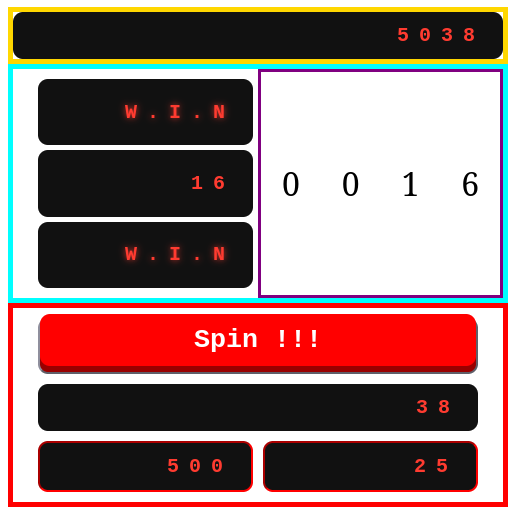
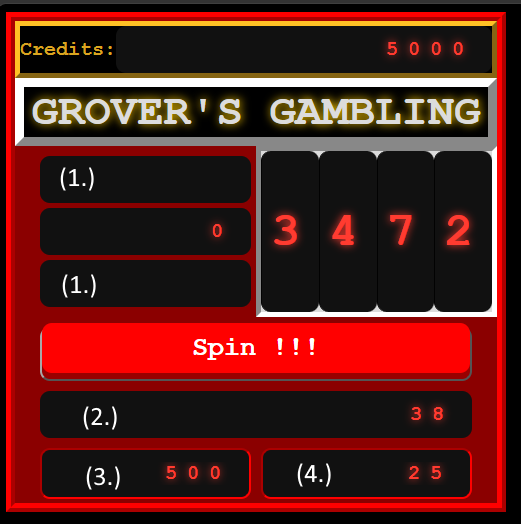
final README.md

diff --git a/README.md b/README.md
@@ -2,9 +2,11 @@
 
 > The world's first casino where the house edge is quantum mechanics.
 
+**Authors:** [Name 1], [Name 2], [Name 3]
+
 ## Summary
-- Idea: while absobing preliminary lessons before hackaton, we got an idea of implementing Grover's algorhitm in a fun way - that it have a very "gambler-friendly" property in first ever existing quantum casino - idea by us - which functionality is defined more detailed in following steps.
-- Solution: we use Grover's algorhitm to bring the gambling into the enviroment. Firstly, user does not bet on exact number, he bets on number of iterations, in which he thinks algorhitm can get the correct number. That way he can be more and more sure in hitting correct number, but by buying more iterations, his prize will be lower so he will have to place bigger bet. And secondly, Grover's can be overcooked, so when he will hit that point, his chances of winning will instantly drop to zero without him noticing, which is second gamble thing in our casino. To understand it deeper, please, see the "Logic & quantum computing" part.
+- Idea: while absorbing preliminary lessons before hackathon, we got an idea of implementing Grover's algorithm in a fun way - that it have a very "gambler-friendly" property in first ever existing quantum casino - idea by us - which functionality is defined more detailed in following steps.
+- Solution: we use Grover's algorithm to bring the gambling into the environment. Firstly, user does not bet on exact number, he bets on number of iterations, in which he thinks algorithm can get the correct number. That way he can be more and more sure in hitting correct number, but by buying more iterations, his prize will be lower so he will have to place bigger bet. And secondly, Grover's can be overcooked, so when he will hit that point, his chances of winning will instantly drop to zero without him noticing, which is second gamble thing in our casino. To understand it deeper, please, see the "Logic & quantum computing" part.
 - Result: casino earns money from people, who can not tell stop to themselves, because by increasing iterations they can be more sure, but also lose everything.
 
 
@@ -30,6 +32,7 @@ A classical computer needs about `N/2` guesses on average. Grover's algorithm ne
    - **Oracle:** flips the sign of the correct answer(s), which "marks" them.
    - **Diffuser:** reflects all amplitudes around their average, which increases the amplitude of the marked answer.
 3. **Measurement:** we measure **once** (1 shot). The result is random, weighted by probability. This single measurement is the "roll of the dice".
+
 **Live circuit (Quirk):** [open in Quirk](https://algassert.com/quirk#circuit=%7B%22cols%22:[[%22~j44k%22,1,1,%22H%22,%22H%22],[%22X%22,1,1,%22X%22,%22X%22],[1,1,1,1,%22H%22],[%22%E2%80%A2%22,%22%E2%80%A2%22,%22%E2%80%A2%22,%22%E2%80%A2%22,%22X%22],[1,1,1,1,%22H%22],[%22X%22,1,1,%22X%22,%22X%22],[%22~j44k%22,1,1,%22H%22,%22H%22],[%22X%22,%22X%22,%22X%22,%22X%22,%22X%22],[1,1,1,1,%22H%22],[%22%E2%80%A2%22,%22%E2%80%A2%22,%22%E2%80%A2%22,%22%E2%80%A2%22,%22X%22],[1,1,1,1,%22H%22],[%22X%22,%22X%22,%22X%22,%22X%22,%22X%22],[%22~j44k%22,1,1,%22H%22,%22H%22],[%22~7odu%22],[%22~7odu%22],[%22~7odu%22],[%22~7odu%22],[%22~7odu%22],[%22~7odu%22],[%22Chance5%22],[%22Amps5%22]],%22gates%22:[%7B%22id%22:%22~j44k%22,%22name%22:%22h%22,%22circuit%22:%7B%22cols%22:[[%22H%22,%22H%22,%22H%22]]%7D%7D,%7B%22id%22:%22~7odu%22,%22circuit%22:%7B%22cols%22:[[%22X%22,1,1,%22X%22,%22X%22],[1,1,1,1,%22H%22],[%22%E2%80%A2%22,%22%E2%80%A2%22,%22%E2%80%A2%22,%22%E2%80%A2%22,%22X%22],[1,1,1,1,%22H%22],[%22X%22,1,1,%22X%22,%22X%22],[%22~j44k%22,1,1,%22H%22,%22H%22],[%22X%22,%22X%22,%22X%22,%22X%22,%22X%22],[1,1,1,1,%22H%22],[%22%E2%80%A2%22,%22%E2%80%A2%22,%22%E2%80%A2%22,%22%E2%80%A2%22,%22X%22],[1,1,1,1,%22H%22],[%22X%22,%22X%22,%22X%22,%22X%22,%22X%22],[%22~j44k%22,1,1,%22H%22,%22H%22]]%7D%7D]%7D)
  
 > Note: the link above is shortened to the gates needed for the demo. If it does not load, use the full Quirk link stored in `docs/` or the screenshot below.
@@ -112,9 +115,24 @@ The web game runs the same probability model in JavaScript (`grover_emulation.js
 2. The player chooses a **token bet** (minimum 500 tokens) and the **number of iterations** (1 to 26).
 3. Press **Spin**. The reels run while the algorithm is "computing", then show the number that Grover's algorithm found.
 4. If it matches the hidden number, the player **wins**. Otherwise the player **loses** the bet.
+
 **What the player should know:**
 - More iterations means a higher chance of winning, but a lower payout.
 - There is a sweet spot. Beyond it, buying more iterations makes the chance of winning *smaller*, and the game does not warn the player.
+
+## Installation & Run
+
+**Web games (Grover casino and Quantum Coin Flip):** only a browser is needed.
+
+1. Download the repository (**Code → Download ZIP**) and unpack it, or clone it with `git clone <repo-url>`.
+2. Start a small local web server in the project folder. The game uses JavaScript modules, and browsers block those when a file is opened by double-click. Pick one:
+   - **VS Code:** install the *Live Server* extension, right-click `index.html` and choose **Open with Live Server**.
+   - **Terminal:** run `python -m http.server 8000` in the project folder and open `http://localhost:8000`.
+3. The coin flip game is at `coinflip/coinflip.html`. It has no modules, so it also works by simply opening the file in a browser.
+
+**Python reference implementations (optional):**
+
+- `coinflip/cf.py` runs on its own: `pip install qiskit qiskit-aer`, then `python coinflip/cf.py`.
 
 ## Challenges
  
@@ -127,10 +145,23 @@ The web game runs the same probability model in JavaScript (`grover_emulation.js
 
 ## User Interface
 - Once you open up the application, you will see multiple “boxes”. 
-From the top, the first one shows you how much money you have. At the beginning, you will have 5000 money, which you will spend to play.
+From the top, the first one shows you how much tokens you have. At the beginning, you will have 5000 tokens, which you will spend to play.
 In the next row to the left, you will see 2 blank boxes and in between of them will be a number. The number shows the correct number, which you want to guess. If it guesses it right, those blank boxes will display a message “W.I.N”, if you lose, it will show “L.O.S.S”. In the same row but on the right you can see a box, which displays the number which you are rolling. 
-In the next row you will see a big button, which when pressed will start the machine. In the row underneath the button you will see how much money you will win.
+In the next row you will see a big button, which when pressed will start the machine. In the row underneath the button you will see how much tokens you will win.
 In the last row you will see 2 boxes. One on the left will let you set an amount you are willing to bet. In the box on the right you are able to set an amount of iterations you want to make. The amount you win is dependent on how much you wager and how few iterations you make. Fewer iterations mean smaller chance to win, but will make you win more.
+
+![Game screenshot](docs/screenshot_game.png)
+
+### What each field means
+
+- **credits:** your balance. It starts at 5000 and changes after every round (a win adds the possible win, a loss subtracts the bet).
+- **(3.) Token bet:** how many tokens you risk in one round. It has to be between the minimum bet (500) and your current balance.
+- **(4.) Iterations (swing) bet:** how many Grover iterations you buy, from 1 to 25. More iterations give a higher chance of finding the number, but a lower payout.
+- **(2.) Possible win:** how many tokens you gain if you win. It updates whenever the bet or the iterations change. It grows with a bigger bet and fewer iterations (currently `bet × (25 − iterations) / 13`, rounded down). If you lose, you lose the bet.
+- **Correct number:** the hidden number the algorithm is searching for. A new random number is picked every round (between 0 and 2ⁿ − 1, where `n` = 5 to 10 qubits).
+- **Reels (4 digits):** they spin while the algorithm is "computing" and then stop on the number it found. If it matches the correct number, you win.
+- **(1.) Status boxes:** two boxes, they are empty during the round, then show `W.I.N` if the found number equals the correct number, or `L.O.S.S` if it does not.
+- **Spin button:** starts a round. The button and both bet fields are locked until the round ends.
 
 
 ## Future improvements
@@ -138,19 +169,20 @@ In the last row you will see 2 boxes. One on the left will let you set an amount
 
 
 
-# Quantum Coin Flip (Bonus Game)
+## Quantum Coin Flip (Bonus Game)
  
 A tiny side game for the Quantum Casino. You stop a spinning coin, your timing rotates a qubit, and one measurement decides where the coin lands. Stop it badly and the quantum gods will laugh at you.
  
-## How to play
+### How to play
  
 1. Pick a bet (min. 500 tokens) and a side (0 or 1).
 2. Press **Flip !!!** and the coin starts spinning.
 3. Press **Stop !!!** whenever you feel lucky.
 4. The qubit gets measured, the coin lands, and you win or lose.
+
 **Cheat code:** stopping on your own side = very likely win, but the payout is boring. Stopping on the edge = a coin toss with a juicy payout.
  
-## The math
+### The math
  
 Let `t` be how long the coin spun, in seconds. One full spin takes 2 seconds, so:
  
@@ -180,6 +212,7 @@ mult = clamp( 0.97 / p , 1 , 100 )
  
 - `0.97` is the house edge constant: the casino keeps 3 %, so the expected return is `p · 0.97/p = 0.97`.
 - The multiplier is never below 1 and never above 100.
+
 Net result of a round:
  
 ```
@@ -193,7 +226,8 @@ loss:  −bet
 - `t = 0.25 s`: `P(0) ≈ 85.4 %`. Bet on 0 → 1.14×. Bet on 1 → 6.62×.
 - `t = 0.5 s`: `P(0) = P(1) = 50 %` → 1.94× for both sides.
 - `t = 1 s`: coin shows 1, same as `t = 0` with the sides swapped.
-## The Bloch sphere view
+
+### The Bloch sphere view
  
 The coin on the screen is the qubit. It spins 180° per second, just like the qubit state rotates around the Y axis of the Bloch sphere.
  
@@ -203,11 +237,12 @@ The coin on the screen is the qubit. It spins 180° per second, just like the qu
  
 *Left to right: `t = 0 s` (state |0⟩), `t = 0.5 s` (on the equator, 50/50), `t = 1 s` (state |1⟩). Made with bloch.kherb.io.*
  
-## Run it
+### Run it
  
 - **Web version:** open `coinflip/coinflip.html` in a browser. No server, no installation. The measurement is emulated with the same probabilities as the circuit.
 - **Qiskit version (terminal):** `pip install qiskit qiskit-aer`, then `python coinflip/cf.py`.
-## Files
+
+### Files
  
 - `coinflip.html`: the game (all-in-one page).
 - `cf.py`: the Qiskit reference implementation and terminal game.
